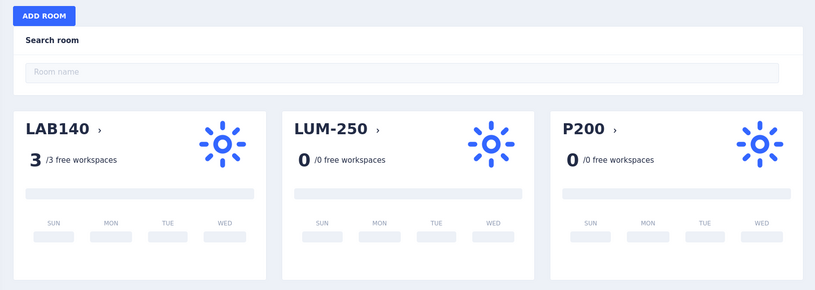
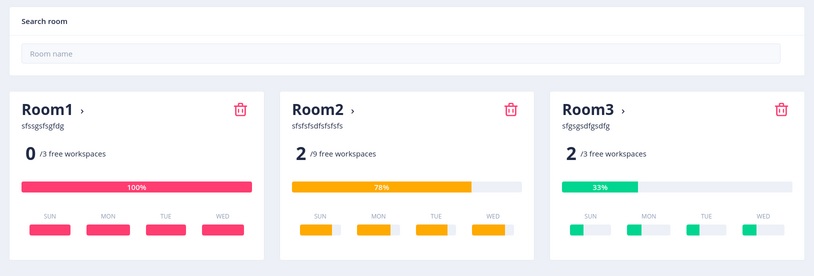
update manual

diff --git a/manualeUtente/content/4 Applicazione web/4.5 Gestione stanze/4.5.4 Aggiunta.md b/manualeUtente/content/4 Applicazione web/4.5 Gestione stanze/4.5.4 Aggiunta.md
@@ -1,10 +1,10 @@
 ## Aggiunta di una nuova stanza nel sistema
 Tramite questa funzionalità un *amministratore* può aggiungere una nuova stanza all'elenco delle stanze già censite nel sistema.
-Per aggiungere una nuova stanza, l'*amministartore* dovrà accedere alla pagina di gestione delle stanze premendo sull'apposita funzionalità "**aggiungi stanza**" situata nella pagina iniziale.
+Per aggiungere una nuova stanza, l'*amministartore* dovrà accedere alla pagina di gestione delle stanze premendo sull'apposita funzionalità di **aggiunta** denotata dalla seguente icona: ![schermata aggiunta stanza1](assets/web/addbutton.png)
+
 Per censire una nuova stanza nel sistema l'*amministratore* dovrà inserire negli appositi spazi le seguenti informazioni:
 1. **codice identificativo nuova stanza**: è un codice alfanumerico che identifica in maniera univoca la stanza all'interno del sistema. Questo codice non può contenere caratteri speciali;
 
-![schermata aggiunta stanza1](assets/web/roomname.png)
 
 2. **codice tag RFID**: questo codice serve al sistema per permettere la prenotazione e l'igienizzazione della stanza. Ogni codice RFID che contrassegna una stanza è univoco.
 

diff --git a/manualeUtente/content/4 Applicazione web/4.5 Gestione stanze/4.5.2 Dati stanza.md b/manualeUtente/content/4 Applicazione web/4.5 Gestione stanze/4.5.2 Dati stanza.md
@@ -6,4 +6,4 @@ Tramite questa funzionalità, un *dipendente* può visualizzare le seguenti info
 
 
 ### Visualizzazione totalità utenti presenti
-Una volta visualizzati i dettagli realtivi alla stanza selezionata, un *amministratore* può visualizzarne in real-time il numero totale degli utenti attivi. Per accedere a questa funzionalità, l'amministratore dovrà selezionare la voce corrispondente presente nella schermata riportata nel patagrafo precedente. <br>La schermata sotto-riportata mostra un esempio della funzionalità discussa.</br>
+Una volta visualizzati i dettagli realtivi alla stanza selezionata, un *amministratore* può visualizzarne in real-time il numero totale degli utenti attivi. Per accedere a questa funzionalità, l'amministratore dovrà selezionare la voce corrispondente presente nella schermata riportata nel patagrafo precedente.
